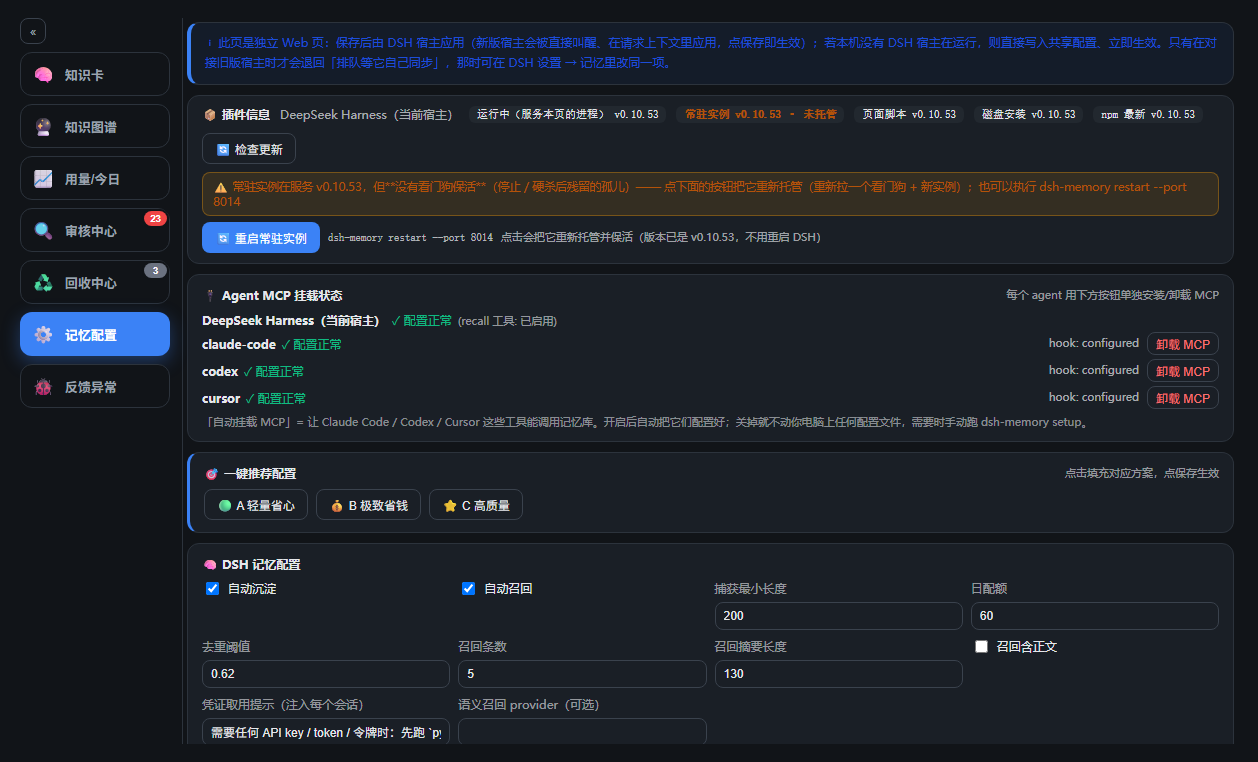
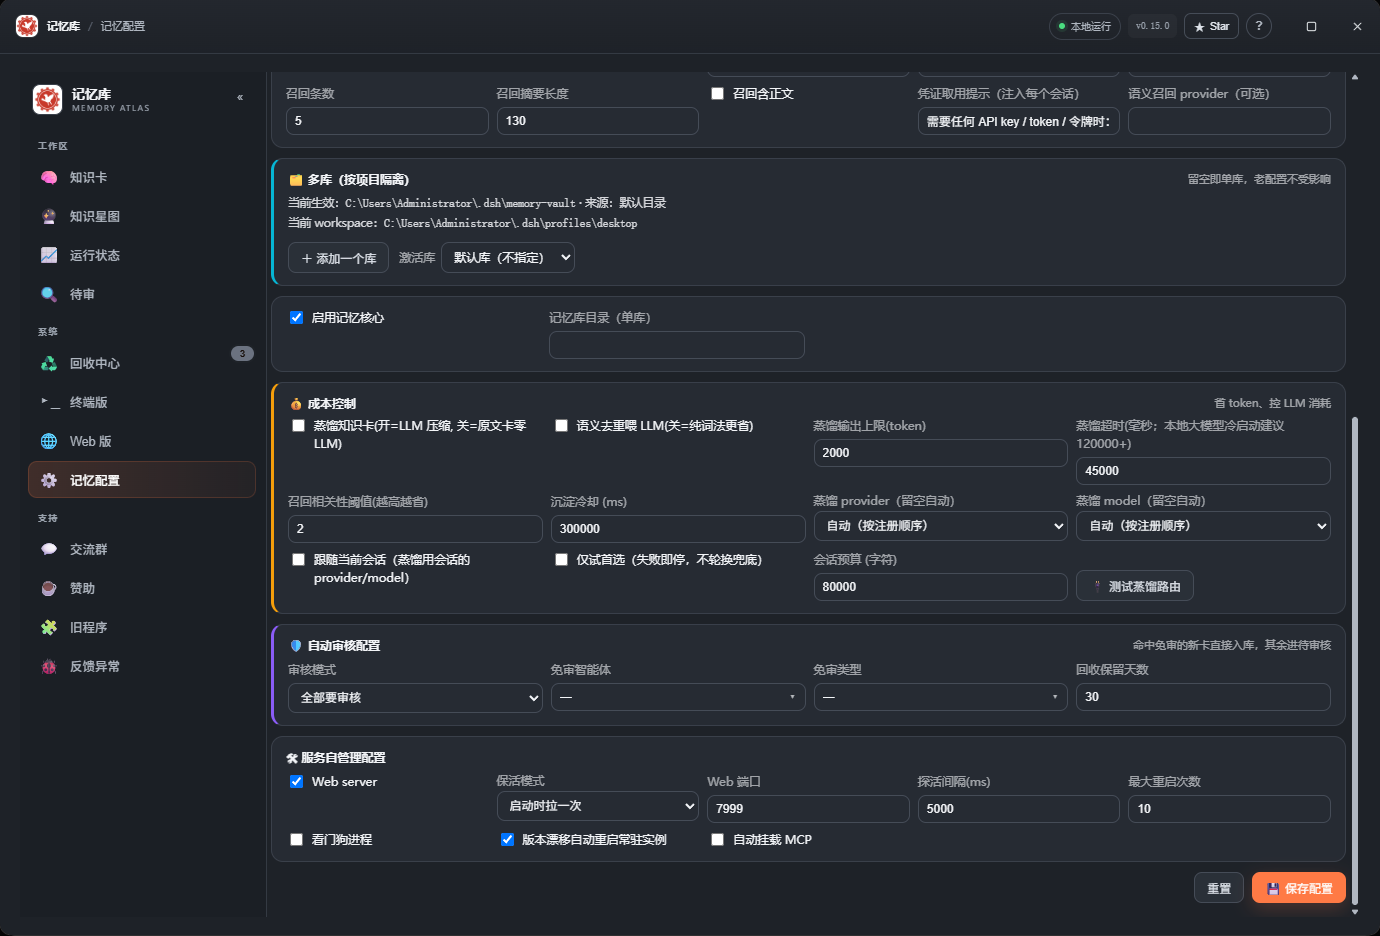
docs: 重做 README 展示（v0.15 真实截图 + 新截图墙）
- 首图换成知识卡，三宫格改为星图/待审/运行状态，终端区改 49% 双图
- 配置页、审核中心截图同步为最新界面；补充多库可视化说明
- 新增交流群二维码；移除已过时的旧截图引用（不升版本、不发 npm）

diff --git a/README.en.md b/README.en.md
@@ -27,9 +27,9 @@
 </p>
 
 <p align="center">
-  <a href="https://eternalnight996.github.io/memory-eternal/demo/"><img src="https://raw.githubusercontent.com/EternalNight996/memory-eternal/main/assets/screen/library.png" width="920" alt="Memory Atlas: library, daily resurface, cards and connection graph" /></a>
+  <a href="https://eternalnight996.github.io/memory-eternal/demo/"><img src="https://raw.githubusercontent.com/EternalNight996/memory-eternal/main/assets/screen/%E7%9F%A5%E8%AF%86%E5%8D%A1.png" width="920" alt="Memory library: knowledge cards, daily resurface, type filters and auto-capture badges" /></a>
 </p>
-<p align="center"><sub>▲ Memory Atlas · live demo (sample data) · <a href="https://eternalnight996.github.io/memory-eternal/demo/">open it</a></sub></p>
+<p align="center"><sub>▲ Knowledge cards · daily resurface · type filters — <a href="https://eternalnight996.github.io/memory-eternal/demo/">live demo (sample data, no install)</a></sub></p>
 
 > **Every conversation is distilled into knowledge cards; nothing is forgotten across sessions, and recall fetches only the relevant chunks — fewer tokens, less noise.**
 > Fully self-built, zero third-party memory framework, no DSH source changes; one vault shared by every Agent, SQLite persistent storage, zero external dependencies.
@@ -39,21 +39,17 @@
 <p align="center"><a href="https://eternalnight996.github.io/memory-eternal/"><b>🌐 Live site</b></a> · <a href="https://eternalnight996.github.io/memory-eternal/demo/"><b>Open the memory library demo</b></a> <sub>(sample data, no install)</sub></p>
 
 <p align="center">
-  <img src="https://raw.githubusercontent.com/EternalNight996/memory-eternal/main/assets/screen/audit.png" width="32%" alt="Review: type bar, queue and verdict sidebar" />
-  <img src="https://raw.githubusercontent.com/EternalNight996/memory-eternal/main/assets/screen/graph.png" width="32%" alt="Knowledge graph: kind colours, cluster legend, cross-vault aggregation" />
-  <img src="https://raw.githubusercontent.com/EternalNight996/memory-eternal/main/assets/screen/reader.png" width="32%" alt="Reader: content plus TOC, tags and related memories" />
+  <img src="https://raw.githubusercontent.com/EternalNight996/memory-eternal/main/assets/screen/%E7%9F%A5%E8%AF%86%E6%98%9F%E5%9B%BE.png" width="32%" alt="Knowledge graph: kind-coloured clusters, tag edges and cross-vault aggregation" />
+  <img src="https://raw.githubusercontent.com/EternalNight996/memory-eternal/main/assets/screen/audit.png" width="32%" alt="Review inbox: type bar, queue and verdict pane with select-all batch approve / reject" />
+  <img src="https://raw.githubusercontent.com/EternalNight996/memory-eternal/main/assets/screen/%E7%9F%A5%E8%AF%86%E7%8A%B6%E6%80%81.png" width="32%" alt="System status: vault, backup, auto-capture and version health at a glance" />
 </p>
-
-<p align="center"><sub>▲ Real screenshots: review verdict · knowledge graph · reader</sub></p>
+<p align="center"><sub>▲ Knowledge graph · review first (readable verdicts) · system status (vault / backup / capture / version)</sub></p>
 
 <p align="center">
-  <img src="https://raw.githubusercontent.com/EternalNight996/memory-eternal/main/assets/screen/terminal.png" width="49%" alt="Web Terminal page: copy commands for the full TUI or the native dsh-tui /audit" />
   <img src="https://raw.githubusercontent.com/EternalNight996/memory-eternal/main/assets/screen/tui-audit.png" width="49%" alt="Native terminal audit: select-all, batch approve/reject, verdict pane" />
+  <img src="https://raw.githubusercontent.com/EternalNight996/memory-eternal/main/assets/screen/tui-reader.png" width="49%" alt="Native terminal long-form reader: body, TOC and related memories" />
 </p>
-<p align="center">
-  <img src="https://raw.githubusercontent.com/EternalNight996/memory-eternal/main/assets/screen/tui-reader.png" width="72%" alt="Native terminal long-form reader: TOC, body, related memories and scrolling" />
-</p>
-<p align="center"><sub>▲ New in v0.14: in-Web terminal guide · native terminal audit (select-all/batch) · long-form reader</sub></p>
+<p align="center"><sub>▲ Terminal-native: <code>dsh-memory tui</code> batch review · long-form reader (read-only by default, <code>--write</code> to really approve/reject)</sub></p>
 
 ---
 
@@ -292,10 +288,10 @@ Three concepts, don't mix them:
 
 ## ⚙ Memory Config (plain words)
 
-> All settings live in the **vault left rail "Memory Config"** (or DSH Settings → Memory) — edit and hit "Save". Here's the full page (plugin info / Agent MCP mount status / auto-audit config):
+> All settings live in the **vault left rail "Memory Config"** (or DSH Settings → Memory) — edit and hit "Save". Here's the full page (multi-vault / cost control / auto-audit / service self-management):
 
 <p align="center">
-  <img src="https://raw.githubusercontent.com/EternalNight996/memory-eternal/main/assets/screen/config.png" width="880" alt="Memory config page" />
+  <img src="https://raw.githubusercontent.com/EternalNight996/memory-eternal/main/assets/screen/config.png" width="880" alt="Memory config page: multi-vault (per project), cost control, auto-audit and service self-management" />
 </p>
 
 ### 1. Most used
@@ -321,7 +317,7 @@ Resolution order: `MEMORY_VAULT_DIR` env → the `path` of the `vaultProfiles` e
 
 **Since v0.9.8 the CLI / MCP / hooks / standalone web / sweep share the host's exact order** — previously only the host honoured `activeVault`, so switching vaults left the terminal and hooks writing to the default vault and split your memory in two.
 
-> Note: the settings page still has no form for `vaultProfiles` / `activeVault` (edit the config file by hand), and per-workspace auto-selection is not implemented yet.
+> Note: `vaultProfiles` / `activeVault` can be maintained in the "Multi-vault (per project)" panel (add / activate / default vault); per-workspace auto-selection is not implemented yet.
 
 ### 2. Save money (important)
 
@@ -385,7 +381,7 @@ Auto-capture is a silent background pipeline: when it broke, the only symptom us
 New cards go to the **Audit Center** (`pending`) by default and enter the main vault only after you approve them; rejected ones move to "Rejected", where you can restore or delete to the recycle bin. Cards matching an exemption (audit mode = skip all / exempt agents / exempt kinds) go straight in; recycle-bin cards are recoverable within 30 days, then auto-purged.
 
 <p align="center">
-  <img src="https://raw.githubusercontent.com/EternalNight996/memory-eternal/main/assets/screen/audit-center.png" width="880" alt="Audit Center" />
+  <img src="https://raw.githubusercontent.com/EternalNight996/memory-eternal/main/assets/screen/audit.png" width="880" alt="Audit Center: pending queue plus verdict pane (symptom / root cause / fix)" />
 </p>
 
 - **Pending / Rejected** tabs, filtered by type / date / agent; select all and approve / reject / delete-to-recycle in one click.
@@ -598,6 +594,7 @@ curl http://127.0.0.1:7999/memory-eternal/api/web-info    # is the standalone we
 **Questions, feature requests, or just want to talk about DSH plugin development — join the group chat:**
 
 <img src="https://raw.githubusercontent.com/EternalNight996/memory-eternal/main/assets/support/group-qr.jpg" width="260" alt="DeepSeek Harness community group QR code" />
+<img src="https://raw.githubusercontent.com/EternalNight996/memory-eternal/main/assets/support/group-wechat.png" width="260" alt="DeepSeek Harness community group V QR code" />
 
 **If this plugin saved you some time, you can buy the author a coffee (either code works):**
 

diff --git a/README.md b/README.md
@@ -27,9 +27,9 @@
 </p>
 
 <p align="center">
-  <a href="https://eternalnight996.github.io/memory-eternal/demo/"><img src="https://raw.githubusercontent.com/EternalNight996/memory-eternal/main/assets/screen/library.png" width="920" alt="Memory Atlas：记忆库、今日回看、知识卡与连接星图" /></a>
+  <a href="https://eternalnight996.github.io/memory-eternal/demo/"><img src="https://raw.githubusercontent.com/EternalNight996/memory-eternal/main/assets/screen/%E7%9F%A5%E8%AF%86%E5%8D%A1.png" width="920" alt="记忆库：知识卡列表、今日回看、类型筛选与 AI 自动沉淀徽标" /></a>
 </p>
-<p align="center"><sub>▲ Memory Atlas · 在线 Demo（示例数据）· <a href="https://eternalnight996.github.io/memory-eternal/demo/">点此打开</a></sub></p>
+<p align="center"><sub>▲ 知识卡 · 今日回看 · 类型筛选 —— <a href="https://eternalnight996.github.io/memory-eternal/demo/">在线 Demo（示例数据，免安装）</a></sub></p>
 
 > **对话结束自动沉淀成知识卡，跨会话不失忆；召回只取相关小块，省 token 少噪音。**
 > 全自研、零第三方记忆框架、不改 DSH 源码；一个记忆库所有 Agent 共享，SQLite 持久存储，零外部依赖。
@@ -39,21 +39,17 @@
 <p align="center"><a href="https://eternalnight996.github.io/memory-eternal/"><b>🌐 在线体验</b></a> · <a href="https://eternalnight996.github.io/memory-eternal/demo/"><b>打开记忆库 Demo</b></a> <sub>（示例数据，不用安装）</sub></p>
 
 <p align="center">
-  <img src="https://raw.githubusercontent.com/EternalNight996/memory-eternal/main/assets/screen/audit.png" width="32%" alt="待审：顶部类型条 + 队列 + 右侧判词栏" />
-  <img src="https://raw.githubusercontent.com/EternalNight996/memory-eternal/main/assets/screen/graph.png" width="32%" alt="知识星图：按类型着色、连接簇图例、跨库聚合" />
-  <img src="https://raw.githubusercontent.com/EternalNight996/memory-eternal/main/assets/screen/reader.png" width="32%" alt="读卡器：正文 + 右侧目录、标签与相关记忆" />
+  <img src="https://raw.githubusercontent.com/EternalNight996/memory-eternal/main/assets/screen/%E7%9F%A5%E8%AF%86%E6%98%9F%E5%9B%BE.png" width="32%" alt="知识星图：按类型着色的连接簇、标签连边与跨库聚合" />
+  <img src="https://raw.githubusercontent.com/EternalNight996/memory-eternal/main/assets/screen/audit.png" width="32%" alt="待审：顶部类型条、队列与右侧判词，可全选批量批准 / 驳回" />
+  <img src="https://raw.githubusercontent.com/EternalNight996/memory-eternal/main/assets/screen/%E7%9F%A5%E8%AF%86%E7%8A%B6%E6%80%81.png" width="32%" alt="运行状态：知识库、备份、自动沉淀与版本健康概览" />
 </p>
-
-<p align="center"><sub>▲ 真实运行截图：待审判词 · 知识星图 · 读卡器</sub></p>
+<p align="center"><sub>▲ 知识星图 · 先审后入（判词看得懂）· 运行状态（库 / 备份 / 沉淀 / 版本一屏体检）</sub></p>
 
 <p align="center">
-  <img src="https://raw.githubusercontent.com/EternalNight996/memory-eternal/main/assets/screen/terminal.png" width="49%" alt="Web 内「终端版」：复制命令，进入完整 TUI 或 dsh-tui 原生 /audit" />
-  <img src="https://raw.githubusercontent.com/EternalNight996/memory-eternal/main/assets/screen/tui-audit.png" width="49%" alt="终端原生待审：全选、批量批准/驳回、判词双栏" />
+  <img src="https://raw.githubusercontent.com/EternalNight996/memory-eternal/main/assets/screen/tui-audit.png" width="49%" alt="终端原生待审：全选、批量批准/驳回、右侧判词" />
+  <img src="https://raw.githubusercontent.com/EternalNight996/memory-eternal/main/assets/screen/tui-reader.png" width="49%" alt="终端原生长文读卡器：正文、目录与相关记忆" />
 </p>
-<p align="center">
-  <img src="https://raw.githubusercontent.com/EternalNight996/memory-eternal/main/assets/screen/tui-reader.png" width="72%" alt="终端原生长文读卡器：目录、正文、相关记忆与滚动" />
-</p>
-<p align="center"><sub>▲ v0.14 新增：Web 内终端引导 · 终端原生审核（全选/批驳）· 长文读卡器</sub></p>
+<p align="center"><sub>▲ 终端原生：<code>dsh-memory tui</code> 批量审核 · 长文读卡（默认只读，<code>--write</code> 才真实批驳）</sub></p>
 
 ---
 
@@ -313,10 +309,10 @@ dsh-memory audit reject <卡片路径...> --reason "..." # 人工批量驳回
 
 ## ⚙ 记忆配置（大白话）
 
-> 所有配置都在 **记忆库左栏「记忆配置」**（或 DSH 设置 → 记忆）里改，点「保存配置」生效。下图就是配置页全貌（含插件信息 / Agent MCP 挂载状态 / 自动审核配置）：
+> 所有配置都在 **记忆库左栏「记忆配置」**（或 DSH 设置 → 记忆）里改，点「保存配置」生效。下图是配置页全貌（多库隔离 / 成本控制 / 自动审核 / 服务自管理）：
 
 <p align="center">
-  <img src="https://raw.githubusercontent.com/EternalNight996/memory-eternal/main/assets/screen/config.png" width="880" alt="记忆配置页：蒸馏 provider / model 下拉、跟随会话、仅试首选、超时与输出上限" />
+  <img src="https://raw.githubusercontent.com/EternalNight996/memory-eternal/main/assets/screen/config.png" width="880" alt="记忆配置页：多库（按项目隔离）、成本控制、自动审核配置与服务自管理" />
 </p>
 
 ### 一、最常用
@@ -342,7 +338,7 @@ dsh-memory audit reject <卡片路径...> --reason "..." # 人工批量驳回
 
 **v0.9.8 起，CLI / MCP / hooks / 独立 web / sweep 与 DSH 宿主共用同一套顺序**：以前只有宿主认 `activeVault`，切库后终端与 hooks 仍往默认库写，记忆会被劈成两份。
 
-> 说明：配置页目前还没有 `vaultProfiles` / `activeVault` 的可视化表单（要手工写配置文件），按 workspace 自动选库也还没做。
+> 说明：`vaultProfiles` / `activeVault` 可在配置页「多库（按项目隔离）」里可视化维护（添加库 / 激活库 / 默认库）；按 workspace 自动选库仍待做。
 
 ### 二、省钱包（重要）
 
@@ -412,7 +408,7 @@ dsh-memory audit reject <卡片路径...> --reason "..." # 人工批量驳回
 > 若回滚到旧版本，审核队列会显示为空（旧代码看不到隔离区表），升级回来即恢复。
 
 <p align="center">
-  <img src="https://raw.githubusercontent.com/EternalNight996/memory-eternal/main/assets/screen/audit-center.png" width="880" alt="审核中心" />
+  <img src="https://raw.githubusercontent.com/EternalNight996/memory-eternal/main/assets/screen/audit.png" width="880" alt="审核中心：待审队列 + 右侧判词（现象 / 根因 / 解决方案）" />
 </p>
 
 - **待审核 / 已驳回** 双页签，按类型 / 日期 / 智能体筛选，全选后一键「批准 / 驳回 / 删除进回收站」。
@@ -631,6 +627,7 @@ curl http://127.0.0.1:7999/memory-eternal/api/web-info    # 独立 web 是否活
 **遇到问题、想提需求、或者想聊聊 DSH 插件开发 —— 欢迎进群：**
 
 <img src="https://raw.githubusercontent.com/EternalNight996/memory-eternal/main/assets/support/group-qr.jpg" width="260" alt="DeepSeek Harness 交流群二维码" />
+<img src="https://raw.githubusercontent.com/EternalNight996/memory-eternal/main/assets/support/group-wechat.png" width="260" alt="DeepSeek Harness 交流V群二维码" />
 
 **如果这个插件帮你省了时间，可以请作者喝杯咖啡（两个码任选其一）：**
 
